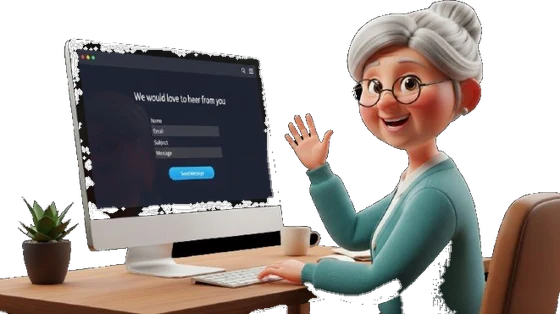
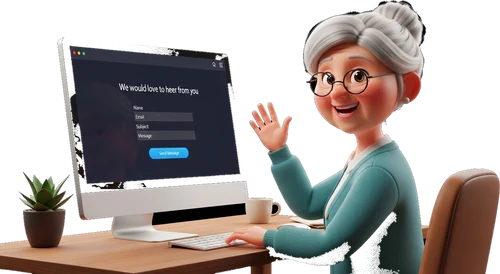
Contact Us page-Fix

diff --git a/src/app/contact/ContactClient.tsx b/src/app/contact/ContactClient.tsx
@@ -626,160 +626,19 @@ export default function ContactPage() {
             </ol>
           </nav>
 
-          {/* ── CREATIVE LAYOUT: Character with REAL form inside her monitor ── */}
+          {/* ── Two-column: Character+Info left, Form right ── */}
           <div id="contact-form" className="scroll-mt-28 pt-8">
-            {/* Section heading */}
-            <motion.div
-              initial={{ opacity: 0, y: 20 }}
-              whileInView={{ opacity: 1, y: 0 }}
-              viewport={{ once: true }}
-              className="text-center mb-10"
-            >
-              <motion.div
-                animate={{ x: [0, 4, 0] }}
-                transition={{ duration: 2.5, repeat: Infinity, ease: "easeInOut" }}
-                className="inline-flex items-center gap-2 px-4 py-2 bg-blue-50 border border-blue-100 rounded-full mb-5"
-              >
-                <HeartHandshake size={16} className="text-blue-600" />
-                <span className="text-blue-700 font-bold text-sm">She&apos;s already reaching out — your turn!</span>
-              </motion.div>
-              <h2 className="text-4xl sm:text-5xl font-black tracking-tight mb-4 text-zinc-900 leading-tight">
-                We&apos;re Here <span className="text-blue-600">to Help You.</span>
-              </h2>
-              <p className="text-lg text-zinc-500 font-medium max-w-2xl mx-auto">
-                Fill out the form on her screen — or scroll down to use the full version. We&apos;ll respond within 24 hours.
-              </p>
-            </motion.div>
+            <div id="full-contact-form" className="grid grid-cols-1 lg:grid-cols-2 gap-8 lg:gap-12 items-start">
 
-            {/* ── The Character + Form-in-Monitor Composition ── */}
-            <motion.div
-              initial={{ opacity: 0, y: 30 }}
-              whileInView={{ opacity: 1, y: 0 }}
-              viewport={{ once: true }}
-              transition={{ duration: 0.8 }}
-              className="relative max-w-5xl mx-auto mb-16"
-            >
-              {/* Character image container — floating gently */}
-              <motion.div
-                animate={{ y: [0, -8, 0, -5, 0] }}
-                transition={{ duration: 7, repeat: Infinity, ease: "easeInOut" }}
-                className="relative"
-              >
-                {/* Glow behind */}
-                <div className="absolute top-[10%] left-[5%] w-[50%] h-[70%] rounded-full opacity-15 pointer-events-none"
-                  style={{ background: "radial-gradient(circle, rgba(59,130,246,0.4) 0%, rgba(139,92,246,0.2) 50%, transparent 70%)" }} />
-
-                {/* The character image */}
-                <picture>
-                  <source media="(max-width: 640px)" srcSet="/contact-character-mobile.webp" type="image/webp" />
-                  <source media="(max-width: 640px)" srcSet="/contact-character-mobile.png" type="image/png" />
-                  <source media="(max-width: 1024px)" srcSet="/contact-character-tablet.webp" type="image/webp" />
-                  <source media="(max-width: 1024px)" srcSet="/contact-character-tablet.png" type="image/png" />
-                  <source srcSet="/contact-character-desktop.webp" type="image/webp" />
-                  <Image
-                    src="/contact-character-desktop.png"
-                    alt="Friendly woman waving hello at the Setwise Digital contact form on her computer"
-                    width={800}
-                    height={449}
-                    priority
-                    className="w-full h-auto select-none relative z-[1]"
-                    style={{ filter: "drop-shadow(0 16px 40px rgba(13,148,136,0.12))" }}
-                    draggable={false}
-                  />
-                </picture>
-
-                {/* ═══ REAL WORKING FORM overlaid exactly on the monitor screen ═══ */}
-                <div className="absolute z-[2] overflow-hidden rounded-sm hidden sm:block"
-                  style={{ left: "13.5%", top: "18%", width: "34%", height: "47%" }}>
-                  <div className="w-full h-full bg-gradient-to-b from-[#1a1f3a] to-[#151930] flex flex-col p-[5%] gap-[3%]"
-                    style={{ fontSize: "clamp(6px, 1.1vw, 12px)" }}>
-                    {/* Mini header */}
-                    <div className="text-center">
-                      <p style={{ fontSize: "clamp(5px, 0.8vw, 9px)", letterSpacing: "0.1em", textTransform: "uppercase" }} className="text-blue-300/70 font-bold mb-[2%]">Contact Us</p>
-                      <p className="text-white font-black leading-tight" style={{ fontSize: "clamp(8px, 1.4vw, 16px)" }}>
-                        We&apos;d love to<br />hear from you
-                      </p>
-                    </div>
-
-                    {/* Form fields — actually functional */}
-                    <div className="flex gap-[3%]">
-                      <input
-                        type="text"
-                        placeholder="Name"
-                        className="flex-1 bg-white/8 border border-white/15 rounded px-[4%] text-white placeholder-white/40 outline-none focus:border-blue-400/60 transition-colors"
-                        style={{ fontSize: "inherit", height: "clamp(14px, 2.5vw, 28px)" }}
-                      />
-                      <input
-                        type="email"
-                        placeholder="Email"
-                        className="flex-1 bg-white/8 border border-white/15 rounded px-[4%] text-white placeholder-white/40 outline-none focus:border-blue-400/60 transition-colors"
-                        style={{ fontSize: "inherit", height: "clamp(14px, 2.5vw, 28px)" }}
-                      />
-                    </div>
-                    <input
-                      type="text"
-                      placeholder="Subject — e.g. Printer Setup Help"
-                      className="w-full bg-white/8 border border-white/15 rounded px-[4%] text-white placeholder-white/40 outline-none focus:border-blue-400/60 transition-colors"
-                      style={{ fontSize: "inherit", height: "clamp(14px, 2.5vw, 28px)" }}
-                    />
-                    <textarea
-                      placeholder="Your message..."
-                      className="flex-1 w-full bg-white/8 border border-white/15 rounded px-[4%] py-[3%] text-white placeholder-white/40 outline-none focus:border-blue-400/60 transition-colors resize-none"
-                      style={{ fontSize: "inherit", minHeight: "clamp(20px, 4vw, 50px)" }}
-                    />
-                    <button className="w-full bg-blue-500 hover:bg-blue-400 text-white font-bold rounded transition-colors flex items-center justify-center gap-[4%]"
-                      style={{ fontSize: "inherit", height: "clamp(16px, 2.5vw, 30px)" }}
-                      onClick={() => {
-                        const formEl = document.getElementById("full-contact-form");
-                        if (formEl) formEl.scrollIntoView({ behavior: "smooth" });
-                      }}
-                    >
-                      <Send style={{ width: "clamp(6px, 1vw, 12px)", height: "clamp(6px, 1vw, 12px)" }} />
-                      Send Message
-                    </button>
-                  </div>
-                </div>
-
-                {/* Sparkles around the character */}
-                {[
-                  { x: "55%", y: "8%", del: 0 },
-                  { x: "92%", y: "20%", del: 1 },
-                  { x: "88%", y: "65%", del: 2 },
-                  { x: "3%", y: "50%", del: 1.5 },
-                  { x: "60%", y: "85%", del: 0.5 },
-                ].map((sp, i) => (
-                  <motion.div key={i}
-                    className="absolute w-[3px] h-[3px] rounded-full bg-blue-400 z-[3]"
-                    style={{ left: sp.x, top: sp.y }}
-                    animate={{ opacity: [0, 0.7, 0], scale: [0.5, 1.3, 0.5] }}
-                    transition={{ duration: 2.5, delay: sp.del, repeat: Infinity, ease: "easeInOut" }}
-                  />
-                ))}
-              </motion.div>
-
-              {/* Mobile-only: message to scroll to full form */}
-              <div className="sm:hidden text-center mt-4">
-                <motion.div
-                  animate={{ y: [0, 5, 0] }}
-                  transition={{ duration: 1.5, repeat: Infinity, ease: "easeInOut" }}
-                >
-                  <a href="#full-contact-form" className="inline-flex items-center gap-2 text-blue-600 font-bold text-sm">
-                    <ChevronDown size={18} /> Scroll to fill the form
-                  </a>
-                </motion.div>
-              </div>
-            </motion.div>
-
-            {/* ── Full-size form below (always accessible, especially for mobile) ── */}
-            <div id="full-contact-form" className="grid grid-cols-1 lg:grid-cols-2 gap-12 lg:gap-16 items-start">
-            {/* ═══ Left Side ═══ */}
+            {/* ═══ Left Side: Character + Info ═══ */}
             <motion.div
               initial={{ opacity: 0, x: -40 }}
               whileInView={{ opacity: 1, x: 0 }}
               viewport={{ once: true }}
               transition={{ duration: 0.7 }}
-              className="space-y-10"
+              className="space-y-8"
             >
+              {/* Heading */}
               <div>
                 <h2 className="text-4xl sm:text-5xl font-black tracking-tight mb-5 text-zinc-900 leading-tight">
                   We&apos;re Here<br className="hidden sm:block" />
@@ -792,7 +651,62 @@ export default function ContactPage() {
                 </p>
               </div>
 
-              {/* Contact cards */}
+              {/* ── Floating Character Image ── */}
+              <motion.div
+                animate={{ y: [0, -12, 0, -8, 0] }}
+                transition={{ duration: 7, repeat: Infinity, ease: "easeInOut" }}
+                className="relative"
+              >
+                {/* Glow behind */}
+                <div className="absolute top-[10%] left-[10%] w-[80%] h-[70%] rounded-full opacity-10 pointer-events-none"
+                  style={{ background: "radial-gradient(circle, rgba(59,130,246,0.5) 0%, rgba(139,92,246,0.3) 40%, transparent 70%)" }} />
+
+                <picture>
+                  <source media="(max-width: 640px)" srcSet="/contact-character-mobile.webp" type="image/webp" />
+                  <source media="(max-width: 640px)" srcSet="/contact-character-mobile.png" type="image/png" />
+                  <source media="(max-width: 1024px)" srcSet="/contact-character-tablet.webp" type="image/webp" />
+                  <source media="(max-width: 1024px)" srcSet="/contact-character-tablet.png" type="image/png" />
+                  <source srcSet="/contact-character-desktop.webp" type="image/webp" />
+                  <Image
+                    src="/contact-character-desktop.png"
+                    alt="Friendly woman waving hello with a contact form on her computer screen — Setwise Digital"
+                    width={700}
+                    height={384}
+                    priority
+                    className="relative z-10 w-full h-auto select-none max-w-[500px] mx-auto"
+                    style={{ filter: "drop-shadow(0 16px 40px rgba(59,130,246,0.1))" }}
+                    draggable={false}
+                  />
+                </picture>
+
+                {/* Animated badge */}
+                <motion.div
+                  animate={{ y: [0, -6, 0], x: [0, 3, 0] }}
+                  transition={{ duration: 3, repeat: Infinity, ease: "easeInOut" }}
+                  className="absolute -top-2 right-[5%] sm:right-[10%] z-20 px-4 py-2 bg-white rounded-2xl shadow-lg border border-blue-100 flex items-center gap-2"
+                >
+                  <div className="w-2 h-2 rounded-full bg-emerald-500 animate-pulse" />
+                  <span className="text-xs font-bold text-zinc-700">Online now</span>
+                </motion.div>
+
+                {/* Sparkle particles */}
+                {[
+                  { x: "5%", y: "15%", del: 0 },
+                  { x: "92%", y: "25%", del: 1.2 },
+                  { x: "88%", y: "70%", del: 0.6 },
+                  { x: "8%", y: "75%", del: 2 },
+                  { x: "50%", y: "5%", del: 1.8 },
+                ].map((sp, i) => (
+                  <motion.div key={`csp${i}`}
+                    className="absolute w-[3px] h-[3px] rounded-full bg-blue-400 z-20"
+                    style={{ left: sp.x, top: sp.y }}
+                    animate={{ opacity: [0, 0.8, 0], scale: [0.5, 1.3, 0.5] }}
+                    transition={{ duration: 2.5, delay: sp.del, repeat: Infinity, ease: "easeInOut" }}
+                  />
+                ))}
+              </motion.div>
+
+              {/* Contact info cards */}
               <div className="space-y-5">
                 {[
                   { icon: <Mail size={28} />, title: "Email Us", desc: "We respond within 24 hours.", link: "support@setwisedigital.com", href: "mailto:support@setwisedigital.com", iconColor: "bg-blue-50 text-blue-600 group-hover:bg-blue-600 group-hover:text-white" },
